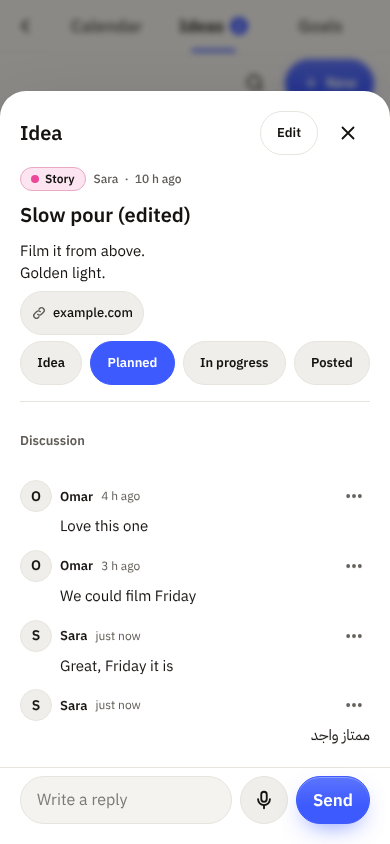
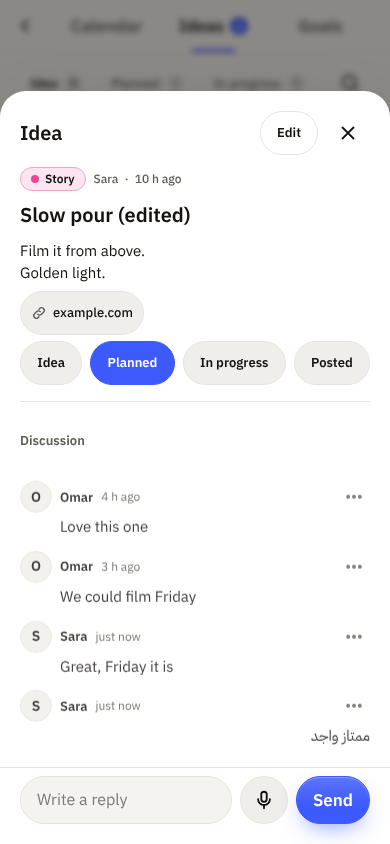
Ideas: tidy tabs row, search field, r6-ideas suite

diff --git a/assets/ideas.js b/assets/ideas.js
@@ -118,7 +118,7 @@ function make(o){
     let u=urls[path]; if(!u){ try{ const m=await o.thumbs([path]); u=m[path]; if(u) urls[path]=u; }catch(_){} } if(!u) return;
     try{ const buf=await (await fetch(u)).arrayBuffer(); AC=AC||new (window.AudioContext||window.webkitAudioContext)(); const ab=await new Promise((ok,no)=>{ const r=AC.decodeAudioData(buf,ok,no); if(r&&r.then) r.then(ok,no); });
       const d=ab.getChannelData(0), n=d.length, step=Math.max(1,Math.floor(n/NB)), pk=[]; for(let i=0;i<NB;i++){ let m=0; const e=Math.min(n,(i+1)*step); for(let j=i*step;j<e;j+=Math.max(1,step>>6)){ const v=Math.abs(d[j]); if(v>m) m=v; } pk.push(m); }
-      const mx=Math.max.apply(null,pk)||1; if(mx<.002) throw 0; peaks.set(path,pk.map(v=>Math.pow(v/mx,.7))); if(ab.duration>0) decDur.set(path,ab.duration); }
+      const mx=Math.max.apply(null,pk); if(!(mx>=.002)) throw 0; peaks.set(path,pk.map(v=>Math.pow(v/mx,.7))); if(ab.duration>0) decDur.set(path,ab.duration); }
     catch(_){ peaks.set(path,pseudoPeaks(String(path))); }
     applyPeaks(path);
   }
@@ -126,7 +126,7 @@ function make(o){
   async function pump(){ if(decBusy) return; decBusy=true; try{ while(decQ.length){ const p=decQ.shift(); if(!peaks.has(p)) await decodeOne(p); } }finally{ decBusy=false; } }
   const SKIP_B=SVG('<path d="M3 12a9 9 0 1 0 3-6.7L3 8"/><path d="M3 3v5h5"/><text x="12" y="15.6" text-anchor="middle" font-size="8.5" font-weight="600" fill="currentColor" stroke="none" font-family="sans-serif">5</text>',22);
   const SKIP_F=SVG('<path d="M21 12a9 9 0 1 1-3-6.7L21 8"/><path d="M21 3v5h-5"/><text x="12" y="15.6" text-anchor="middle" font-size="8.5" font-weight="600" fill="currentColor" stroke="none" font-family="sans-serif">5</text>',22);
-  const playerHtml=(path,secs,e)=>`<div class="id-voice" dir="ltr" data-path="${esc(path)}" data-secs="${+secs||0}" data-author="${esc((e&&e.author)||'')}" data-at="${esc((e&&e.created_at)||'')}"><button type="button" class="id-play" data-play aria-label="Play voice note">${IC.play}</button><div class="id-vmain"><span class="id-vbar" role="slider" tabindex="0" aria-label="Seek in the voice note" aria-valuemin="0" aria-valuemax="100" aria-valuenow="0" aria-valuetext="0:00 of ${mmss(secs)}">${waveBars(String(path))}</span><div class="id-vrow"><bdi class="id-vt">${mmss(secs)}</bdi><span class="id-vctl"><button type="button" class="id-skip" data-skip="-5" aria-label="Back 5 seconds">${SKIP_B}</button><button type="button" class="id-rate" data-rate aria-label="Playback speed">${rateTxt(getRate())}</button><button type="button" class="id-skip" data-skip="5" aria-label="Forward 5 seconds">${SKIP_F}</button></span></div></div><span class="id-verr" dir="auto" role="alert">Could not play this voice note</span><button type="button" class="id-retry" data-retry>Retry</button></div>`;
+  const playerHtml=(path,secs,e)=>`<div class="id-voice" dir="ltr"${peaks.has(path)?' data-wave="1"':''} data-path="${esc(path)}" data-secs="${+secs||0}" data-author="${esc((e&&e.author)||'')}" data-at="${esc((e&&e.created_at)||'')}"><button type="button" class="id-play" data-play aria-label="Play voice note">${IC.play}</button><div class="id-vmain"><span class="id-vbar" role="slider" tabindex="0" aria-label="Seek in the voice note" aria-valuemin="0" aria-valuemax="100" aria-valuenow="0" aria-valuetext="0:00 of ${mmss(secs)}">${waveBars(String(path))}</span><div class="id-vrow"><bdi class="id-vt">${mmss(secs)}</bdi><span class="id-vctl"><button type="button" class="id-skip" data-skip="-5" aria-label="Back 5 seconds">${SKIP_B}</button><button type="button" class="id-rate" data-rate aria-label="Playback speed">${rateTxt(getRate())}</button><button type="button" class="id-skip" data-skip="5" aria-label="Forward 5 seconds">${SKIP_F}</button></span></div></div><span class="id-verr" dir="auto" role="alert">Could not play this voice note</span><button type="button" class="id-retry" data-retry>Retry</button></div>`;
   const durOf=(path,tot)=>aud&&playingPath===path&&isFinite(aud.duration)&&aud.duration>0?aud.duration:(decDur.get(path)||tot||0);
   let raf=0;
   function paintAudio(){
@@ -134,10 +134,10 @@ function make(o){
     document.querySelectorAll('.id-voice').forEach(el=>{ const path=el.dataset.path, on=!!aud&&path===playingPath, tot=+el.dataset.secs||0, playing=on&&!aud.paused, bad=failed.has(path);
       if(!el.dataset.wave&&!bad) wantPeaks(path);
       const dur=durOf(path,tot), cur=on?aud.currentTime:0, p=on&&dur?Math.min(1,cur/dur):0;
-      el.classList.toggle('err',bad); el.classList.toggle('on',on); el.classList.toggle('playing',playing);
+      el.classList.toggle('err',bad); const act=on&&(playing||cur>0); el.classList.toggle('on',act); el.classList.toggle('playing',playing);
       const bars=el.querySelectorAll('.id-vbar i'), k=Math.round(p*bars.length); bars.forEach((b,i)=>{ const f=i<k; if(b.classList.contains('pl')!==f) b.classList.toggle('pl',f); });
-      const sl=el.querySelector('.id-vbar'), txt=on?mmss(cur)+' / '+mmss(dur):mmss(dur||tot);
-      sl.setAttribute('aria-valuenow',String(Math.round(p*100))); sl.setAttribute('aria-valuetext',on?mmss(cur)+' of '+mmss(dur):'0:00 of '+mmss(dur||tot));
+      const sl=el.querySelector('.id-vbar'), txt=act?mmss(cur)+' / '+mmss(dur):mmss(dur||tot);
+      sl.setAttribute('aria-valuenow',String(Math.round(p*100))); sl.setAttribute('aria-valuetext',act?mmss(cur)+' of '+mmss(dur):'0:00 of '+mmss(dur||tot));
       const b=el.querySelector('.id-play'), pl=playing?'1':'0'; if(b.dataset.s!==pl){ b.dataset.s=pl; b.innerHTML=playing?IC.pause:IC.play; b.setAttribute('aria-label',playing?'Pause voice note':'Play voice note'); }
       const rb=el.querySelector('.id-rate'); if(rb.textContent!==rateTxt(rt)){ rb.textContent=rateTxt(rt); }
       const vt=el.querySelector('.id-vt'); if(vt.textContent!==txt) vt.textContent=txt; });
@@ -268,7 +268,8 @@ function make(o){
   function paintRow(){
     const row=root.querySelector('.id-row'); if(!row) return; const stg=row.querySelector('.id-stg'); const show=state==='ok'&&items.length>0; row.hidden=!show;
     if(!stg) return; const all=items.filter(matches), by=k=>all.filter(x=>x.stage===k);
-    stg.hidden=wide(); stg.innerHTML=show&&!wide()?STAGES.map(([k,l])=>`<button type="button" class="chip" data-stage-tab="${k}" aria-pressed="${stage===k}">${l}<i><bdi>${by(k).length}</bdi></i></button>`).join(''):''; }
+    stg.hidden=wide(); stg.innerHTML=show&&!wide()?STAGES.map(([k,l])=>`<button type="button" class="chip" data-stage-tab="${k}" aria-pressed="${stage===k}">${l}${by(k).length?`<i><bdi>${by(k).length}</bdi></i>`:''}</button>`).join(''):'';
+    const on=stg.querySelector('[aria-pressed="true"]'); if(on&&stg.scrollWidth>stg.clientWidth+1){ try{ stg.scrollTo({left:Math.max(0,on.offsetLeft-12),behavior:'instant'}); }catch(_){} } }   /* a zero count is not drawn; on a very narrow phone the row scrolls to the open stage */
   function closeSearch(fromNav){ if(!searchOpen) return; searchOpen=false; q=''; if(!fromNav){ try{ window.Studio&&Studio.nav&&Studio.nav.drop('ideas-search'); }catch(_){} } drawTop(); drawBody(); const b=root.querySelector('[data-search]'); if(b&&!fromNav) try{ b.focus({preventScroll:true}); }catch(_){} }
   function openSearch(){ if(searchOpen) return; searchOpen=true; try{ window.Studio&&Studio.nav&&Studio.nav.push('ideas-search',()=>closeSearch(true)); }catch(_){} drawTop(); drawBody(); const i=root.querySelector('#idQ'); if(i) i.focus(); }
   function drawTop(){

diff --git a/assets/ideas.css b/assets/ideas.css
@@ -269,5 +269,9 @@ a.id-lnk{min-height:44px;margin-block:-6px}
 .id-stgtag{font:500 var(--fs-xs) var(--sans);color:var(--muted)}
 .id-head{margin-bottom:2px}
 .id-content>.id-list,.id-content>.id-cols,.id-content>.id-empty{margin-top:var(--sp-1)}
-.id-row .id-stg .chip[aria-pressed="true"]::after{bottom:0}
+.id-row .id-stg .chip[aria-pressed="true"]::after{bottom:0;left:8px;right:8px}
+.id-row .id-stg .chip{padding:0 8px;gap:2px;font-size:var(--fs-s)}
+.id-row .id-stg .chip i{margin-inline-start:2px}
+.ideas-view .id-search input,.ideas-view .id-search input:focus{outline:0;box-shadow:none;border:0;background:none;border-radius:0}
+.id-search input::-webkit-search-cancel-button,.id-search input::-webkit-search-decoration{display:none;-webkit-appearance:none}
 /* /r6-ideas */
